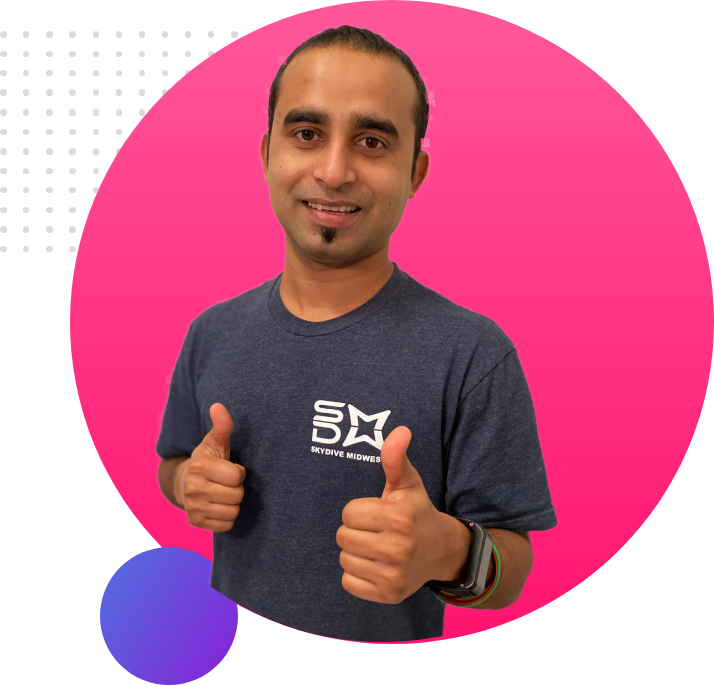
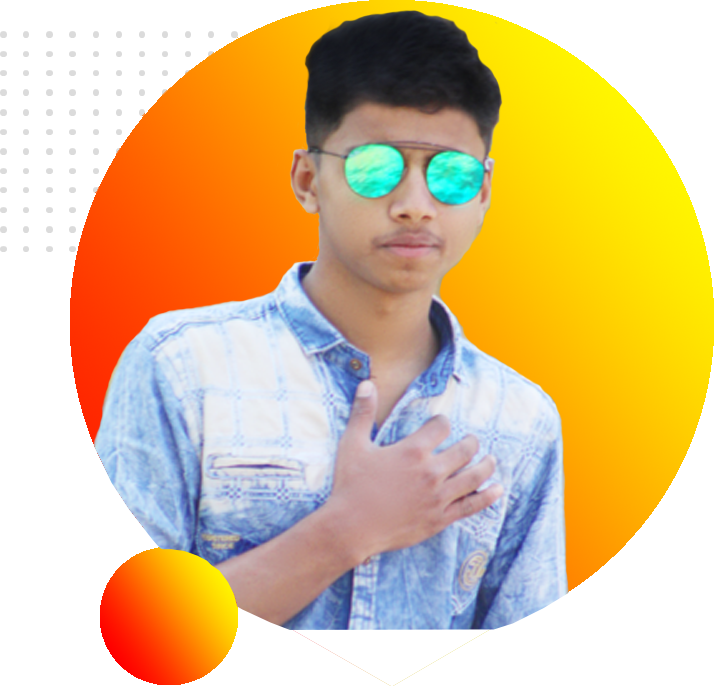
add new Something

diff --git a/index.html b/index.html
@@ -1,0 +1,51 @@
+<!DOCTYPE html>
+<html lang="en">
+    <head>
+        <title>Abu Hasan PortFolio</title>
+        <meta charset="UTF-8">
+        <meta name="viewport" content="width=device-width, initial-scale=1">
+        <link href="https://fonts.googleapis.com/css?family=Poppins&amp;display=swap" rel="stylesheet">
+        <link href="style.css" rel="stylesheet">
+    </head>
+    <body>
+        <section class="top-banner">
+            <div class="half-width">
+                <h1>Welcome To</h1>
+                <h1><span>ABU Hasan</span> Portfolio</h1>
+                <h3>Professional Web Developer</h3>
+                <p>My name is Abu Hassan, I have been involved in web development for the last 1 year. I have also designed several sites, among them, npsbm.com a simple site development with WordPress. I am now very comfortable in my web development field.</p>
+                <a class="anchor-button" target="_blank" href="#">HIRE ME</a>
+            </div>
+            <div class="half-width">
+                <img src="images/abu.png" alt="img...">
+            </div>
+        </section>
+        <section class="dream-area">
+            <div class="half-width">
+                <img src="images/jhankar2.png" alt="img...">
+            </div>
+            <div class="half-width">
+                <h2>Dream Big</h2>
+                <h3>Beacome a web developer</h3>
+                <p>I have already learned basic HTML and CSS. I can create any simple website. I can even teach everyone how to create simple websites. My goal is to get selected in SCIC (Super Cherge Interview Club) in programming hero bangla course.</p>
+                <a class="anchor-button" href="">DOWNLOAD RESUME</a>
+            </div>
+        </section>
+        <section class="experience-area">
+            <h2>Experiences</h2>
+            <div class="half-width" id="full-stack">
+                <h2>Full Stack Web Developer</h2>
+                <h3>2021-Present | Pro Level Developer</h3>
+                <p>I am the master of HTML, CSS and Javascript. I know everything needed to make a website function, efficient. I didn't stop with the web. I went beyond with most popular Javascript framework called Vue JS. I even know the deployment, server and security. I will give you 100% web solution.</p>
+            </div>
+            <div class="half-width" id="baby-web">
+                <h2>Baby Web Developer</h2>
+                <h3>2020-2021 | Programming Hero Learner</h3>
+                <p>They didn't offer me a job. But I made myself as a remove web developer. I made their website and showed it to them. They liked it. And uploaded the content. It was fun working at Programming Hero.</p>
+            </div> 
+        </section>
+        <footer>
+            <p>© Peter Parker 2021, a Programming Hero initiative.</p>
+        </footer>
+    </body>
+</html>

diff --git a/style.css b/style.css
@@ -1,0 +1,75 @@
+*{
+    
+}
+h1 {
+    font-size: 50px;
+}
+/* =====TypoGraphy */
+body{
+    font-family: 'Poppins', sans-serif;
+    margin: 0;
+}
+.top-banner {
+    background-image: url(images/top-banner.png);
+    background-repeat: no-repeat;
+}
+section{
+    height: 500px;
+    padding-bottom: 150px;
+}
+.half-width {
+    width: 40%;
+    float: left;
+    margin-left: 5%;
+    padding-left: 2%;
+}
+h1 span {
+    color: orange;
+}
+p {
+    color: dimgray;
+}
+.anchor-button {
+    text-decoration: none;
+    background: linear-gradient(45deg, lightsalmon, tomato);
+    padding: 10px 40px;
+    border-radius: 5px;
+    color: white;
+    font-weight: 700;
+}
+.half-width img {
+    width: 100%;
+}
+.dream-area {
+    background-image: url(images/dream-bg.png);
+    background-repeat: no-repeat;
+    background-position: right;
+}
+h2 {
+    font-size: 40px;
+}
+.experience-area {
+    background-image: url(images/exp-bg.png);
+    background-repeat: no-repeat;
+    background-position: left;
+}
+#full-stack {
+    border-left: 7px solid;
+    border-image: linear-gradient(180deg, lightsalmon, tomato);
+    border-image-slice: 1;
+}
+.experience-area div {
+    box-shadow: 5px 7px 40px grey;
+    height: 80%;
+}
+.experience-area h3 {
+    color: orange;
+}
+#baby-web {
+    border-left: 7px solid;
+    border-image: linear-gradient(180deg, blue, cyan);
+    border-image-slice: 1;
+}
+footer p {
+    text-align: center;
+}
